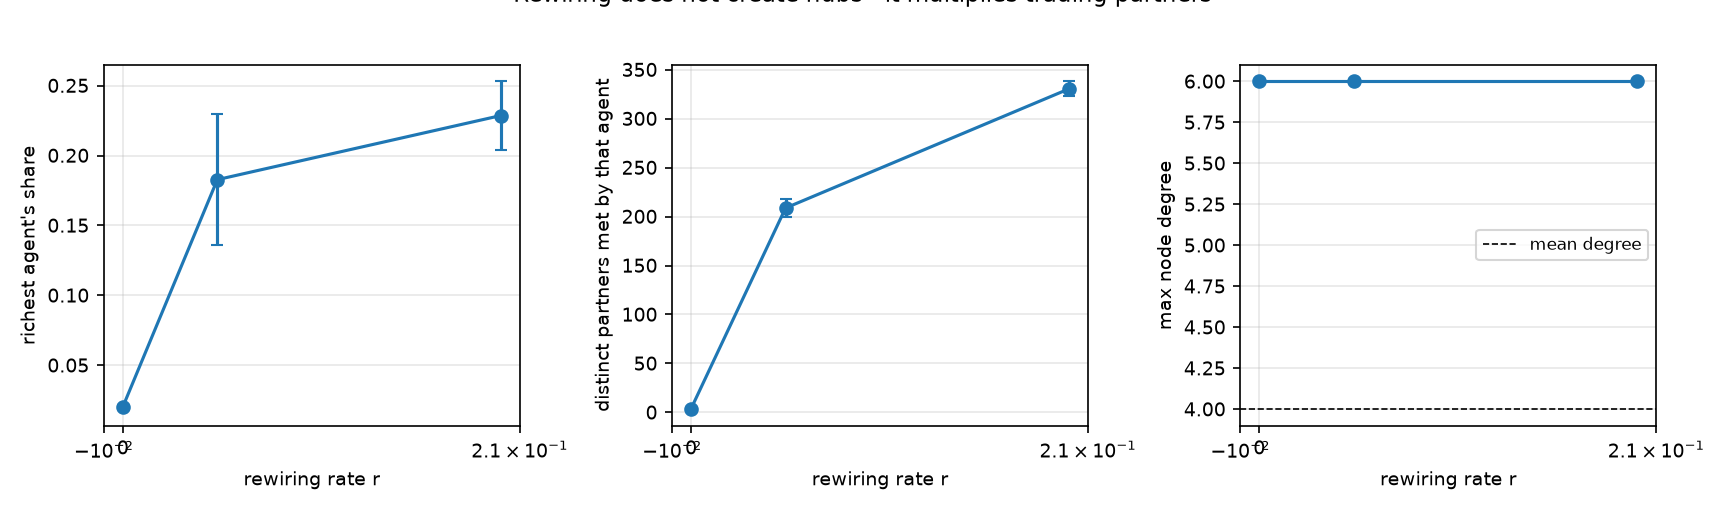
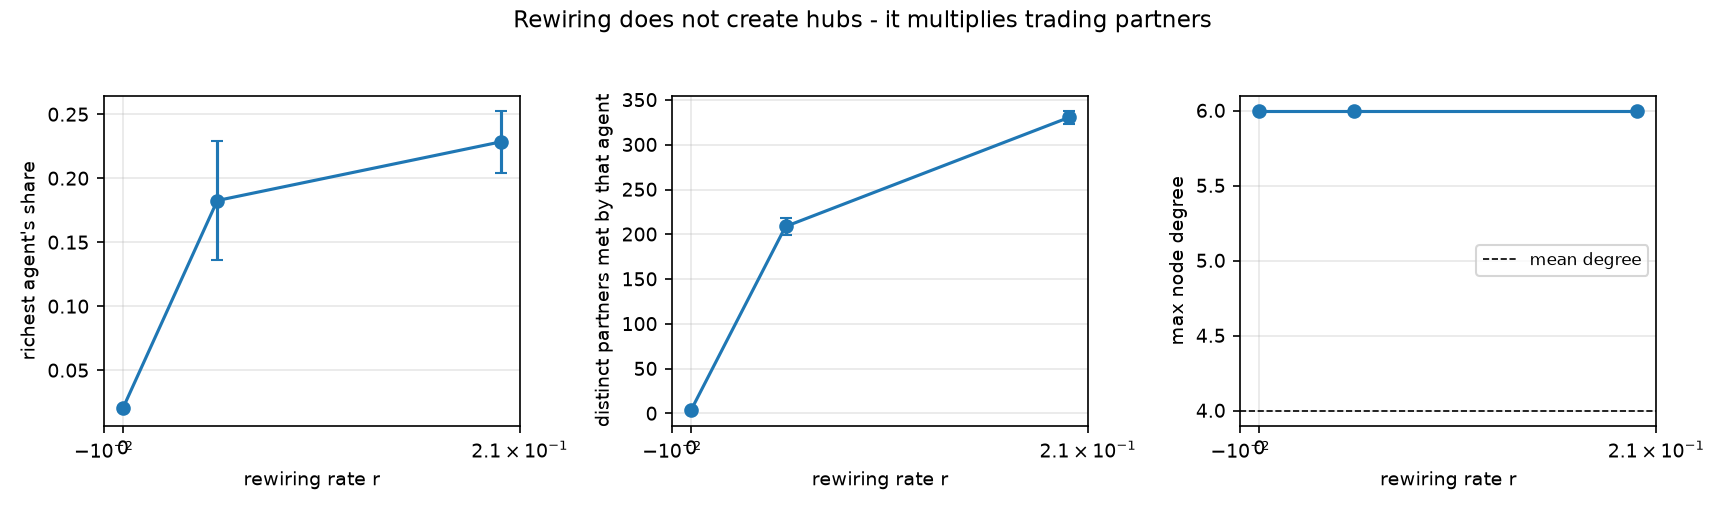
fix: keep idea1 figure titles inside the saved images

diff --git a/investigations/idea1-yardsale/prototype/run_experiments.py b/investigations/idea1-yardsale/prototype/run_experiments.py
@@ -349,8 +349,8 @@ def expt_tax_mode(quick=False):
     axes[0].set(xlabel="sweeps", ylabel="Gini", title="Wealth tax (Boghosian-style)")
     axes[1].set(xlabel="sweeps", title="Tax on trade gains only")
     axes[1].legend(fontsize=7)
-    fig.suptitle("Fair model (p=0.5, f=0.2): which tax stops condensation?", y=1.02)
-    fig.tight_layout()
+    fig.suptitle("Fair model (p=0.5, f=0.2): which tax stops condensation?")
+    fig.tight_layout(rect=(0.0, 0.0, 1.0, 0.94))
     fig.savefig(os.path.join(FIGURES, "fig6_tax_mode.png"))
     plt.close(fig)
 
@@ -422,7 +422,7 @@ def expt_finite_size(quick=False):
             if np.isnan(row["mean"]):
                 ax.plot(n, sweeps, "x", color=plt.gca().lines[-1].get_color())
     ax.set(xlabel="number of agents N", ylabel="sweeps to 50% share", xscale="log", yscale="log",
-           title="Fair model condensation is slow and N-dependent (f=0.3)")
+           title="Fair model condensation is slow\nand N-dependent (f=0.3)")
     ax.legend(fontsize=8)
     fig.tight_layout()
     fig.savefig(os.path.join(FIGURES, "fig8_finite_size.png"))

diff --git a/investigations/idea1-yardsale/prototype/extra_mechanisms.py b/investigations/idea1-yardsale/prototype/extra_mechanisms.py
@@ -130,8 +130,8 @@ def rewiring_mechanism(sweeps=1500, seeds=4, rs=(0.0, 0.05, 0.2)):
         ax.set(xlabel="rewiring rate r", ylabel=title, xscale="symlog")
     axes[2].axhline(df.mean_degree.mean(), color="k", ls="--", lw=0.8, label="mean degree")
     axes[2].legend(fontsize=8)
-    fig.suptitle("Rewiring does not create hubs - it multiplies trading partners", y=1.03)
-    fig.tight_layout()
+    fig.suptitle("Rewiring does not create hubs - it multiplies trading partners")
+    fig.tight_layout(rect=(0.0, 0.0, 1.0, 0.94))
     fig.savefig(os.path.join(FIGURES, "fig11_rewiring_mechanism.png"))
     plt.close(fig)
 
